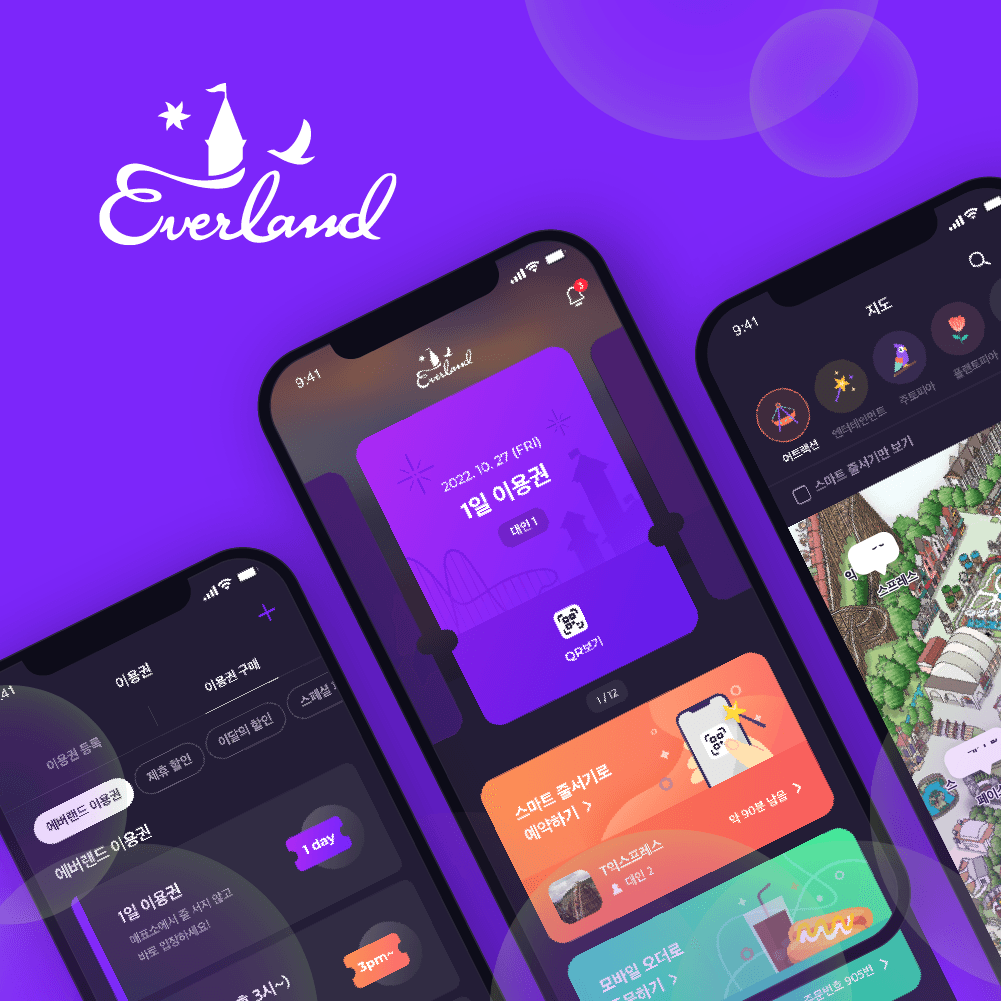
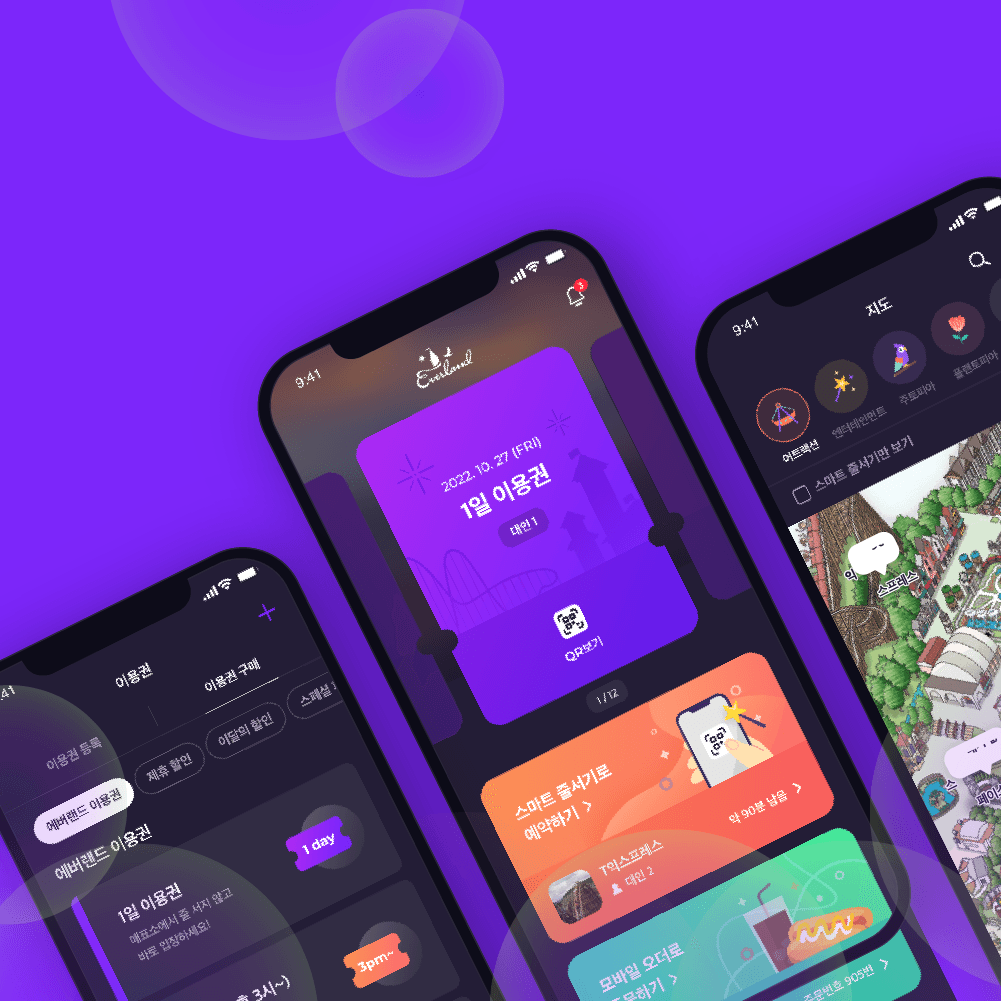
2023.08.21~2023.08.23

Changed region(s): [[0.0929, 0.0, 0.5265, 0.2478], [0.5265, 0.0, 0.9291, 0.1858]]

diff --git a/css/everland_app.css b/css/everland_app.css
@@ -1,10 +1,14 @@
 .everland_app{
   margin-top: 18.75rem;
 }
+.everland_app .mobile{
+  display: none;
+}
 .section_name_wrap.align_right{
   text-align: right;
 }
 .Google_Play_download_button{
+  display: inline-block;
   margin-top: 31px;
   width: 520px;
   height: 98px;
@@ -93,13 +97,14 @@
   transition: 2s;
 }
   .scrolled .phone_img_wrap:before{
-    width: 170%;
-    padding-bottom: 170%;
+    width: clamp(900px,170%,170%) ;
+    padding-bottom: clamp(900px,170%,170%) ;
   }
 .phone_text_wrap{
+  display: block;
   position: absolute;
   width: 150%;
-  top: 0%;
+  top: -4.5%;
   left : 50%;
   text-align: center;
 
@@ -107,9 +112,18 @@
 }
 .phone_text_wrap>h4{
   font-size: 38px;
-  font-weight: bold;
+  font-weight: bolder;
+  color: white;
 }
-
+.phone_text_wrap>h4>point2{
+  font-size : 48px;
+  font-family: 'Montserrat';
+  font-weight: 900;
+  text-shadow: -2px -2px 0 white, 2px -2px 0 white, -2px 2px 0 white, 2px 2px 0 white;
+}
+.app_phone_img{
+  height: 80%;
+}
 
 .smart_line_img_wrap{
   width: 25.5%;
@@ -130,12 +144,17 @@
   border-radius: 50%;
   overflow: hidden;
   display: flex;
-
+  border : 7px solid white;
 }
+
 .circle_img_wrap>img{
   width: 100%;
   height: 0;
   padding-bottom: 100%;
+  transition: 0.5s;
+}
+.circle_img_wrap:hover>img{
+  transform: scale(1.2);
 }
 .smart_line_img_wrap img{
   background-image: url("../img/everlandApp/everlandApp_smarLine.jpg");
@@ -151,7 +170,7 @@
 }
 
 .circle_text{
-  font-size: 1.2rem;
+  font-size: 1.4rem;
   font-weight: bold;
   margin-top: 1.5rem;;
 }

diff --git a/index.html b/index.html
@@ -24,6 +24,7 @@
   <!-- 반응형 Css -->
   <link rel="stylesheet" href="./css/responsive/header_responsive.css">
   <link rel="stylesheet" href="./css/responsive/editorsClip_responsive.css">
+  <link rel="stylesheet" href="./css/responsive/everland_app_responsive.css">
 </head>
 <body>
   <!-- Header  -->
@@ -422,8 +423,12 @@
       <div class="everland_img_section">
         <div class="phone_img_wrap">
           <div class="phone_text_wrap">
-            <h4><point2>에버랜드 APP</point2></h4>
+            <h4><point2>Everland APP</point2></h4>
             <h4>하나의 앱으로 누리는 통합혜택</h4>
+          </div>
+          <div class="mobile mobile_phone_text_wrap">
+            <p>이용권 등록,확인 및</p>
+            <p>스마트줄서기를 할 수 있어요</p>
           </div>
           <img class="app_phone_img" src="./img/everlandApp/everlandApp_home.png" alt="">
         </div>
@@ -450,6 +455,11 @@
           <p class="circle_text">
             모바일 오더
           </p>
+        </div>
+        <div class="mobile mobile_app_text_wrap">
+          <p>에버랜드 <eng>App!</eng></p>
+          <span>하나의 앱으로 누리는 통합 혜택</span>
+          <button class="app_section_play_store_button">Play Store <img src="./img/icon/right_arrow.png" alt=""> </button>
         </div>
       </div>
       

diff --git a/css/responsive/everland_app_responsive.css b/css/responsive/everland_app_responsive.css
@@ -1,0 +1,61 @@
+@media screen and (max-width : 1280px) {
+  .smart_line_img_wrap,.map_img_wrap,.order_img_wrap,.phone_text_wrap,.Google_Play_download_button{
+    display: none;
+  }
+
+  .everland_img_section{
+    height: 600px; /* 변경? */
+    display: flex;
+    justify-content: space-between;
+    align-items: center;
+  
+    gap: 0rem;
+    margin-top: 60px;
+  }
+  .everland_app .mobile{
+    display: flex;
+  }
+  .mobile_phone_text_wrap{
+    display: flex;
+    flex-direction: column;
+    align-items: flex-start;
+    margin-bottom: 2rem;
+
+  }
+  .app_phone_img{
+    height: 90%;
+  }
+  .phone_img_wrap{
+    width: 50%;
+  }
+  
+  .scrolled .phone_img_wrap:before{
+    left: -50%;
+    /* transform: translate(-25%); */
+    width: clamp(750px,170%,170%) ;
+    padding-bottom: clamp(750px,170%,170%) ;
+  }
+  .mobile_app_text_wrap{
+    width: 50%;
+    display: flex;
+    flex-direction: column;
+  }
+  .mobile_app_text_wrap eng{
+    font-family: 'Montserrat';
+    font-weight: bold;
+    color: var(--orange);
+  }
+  .mobile_phone_text_wrap p{
+    width: 200%;
+    color: white;
+    font-size: 1.2rem;
+    font-weight: bold;
+  }
+  
+}
+
+@media screen and (max-width : 675px) {
+  .app_phone_img{
+    height: 75%;
+  }
+}

diff --git a/js/header.js b/js/header.js
@@ -20,7 +20,7 @@ $(document).ready(function(){
   for(let i = 0 ; i < mobileSnbUl.length ; i++){
     mobileSnbUlHeight[i] = mobileSnbUl[i].dataset.len * mobileSnbLiHeight;
   }
-  let headerResizeOnce = true;
+  let headerResizeOnce = false;
 
   let bodyHeight = $("body").css("height");
   console.log(bodyHeight);

diff --git a/js/everlandApp.js b/js/everlandApp.js
@@ -13,7 +13,7 @@ $(document).ready(function(e){
   $(document).scroll(function(e){
     pagesHeight = docElem.scrollTop;
     console.log(pagesHeight);
-    if(pagesHeight >= everLandImgHeight-500){
+    if(pagesHeight >= everLandImgHeight-1100){
       $(".everland_app").addClass("scrolled");
     }
     else{
